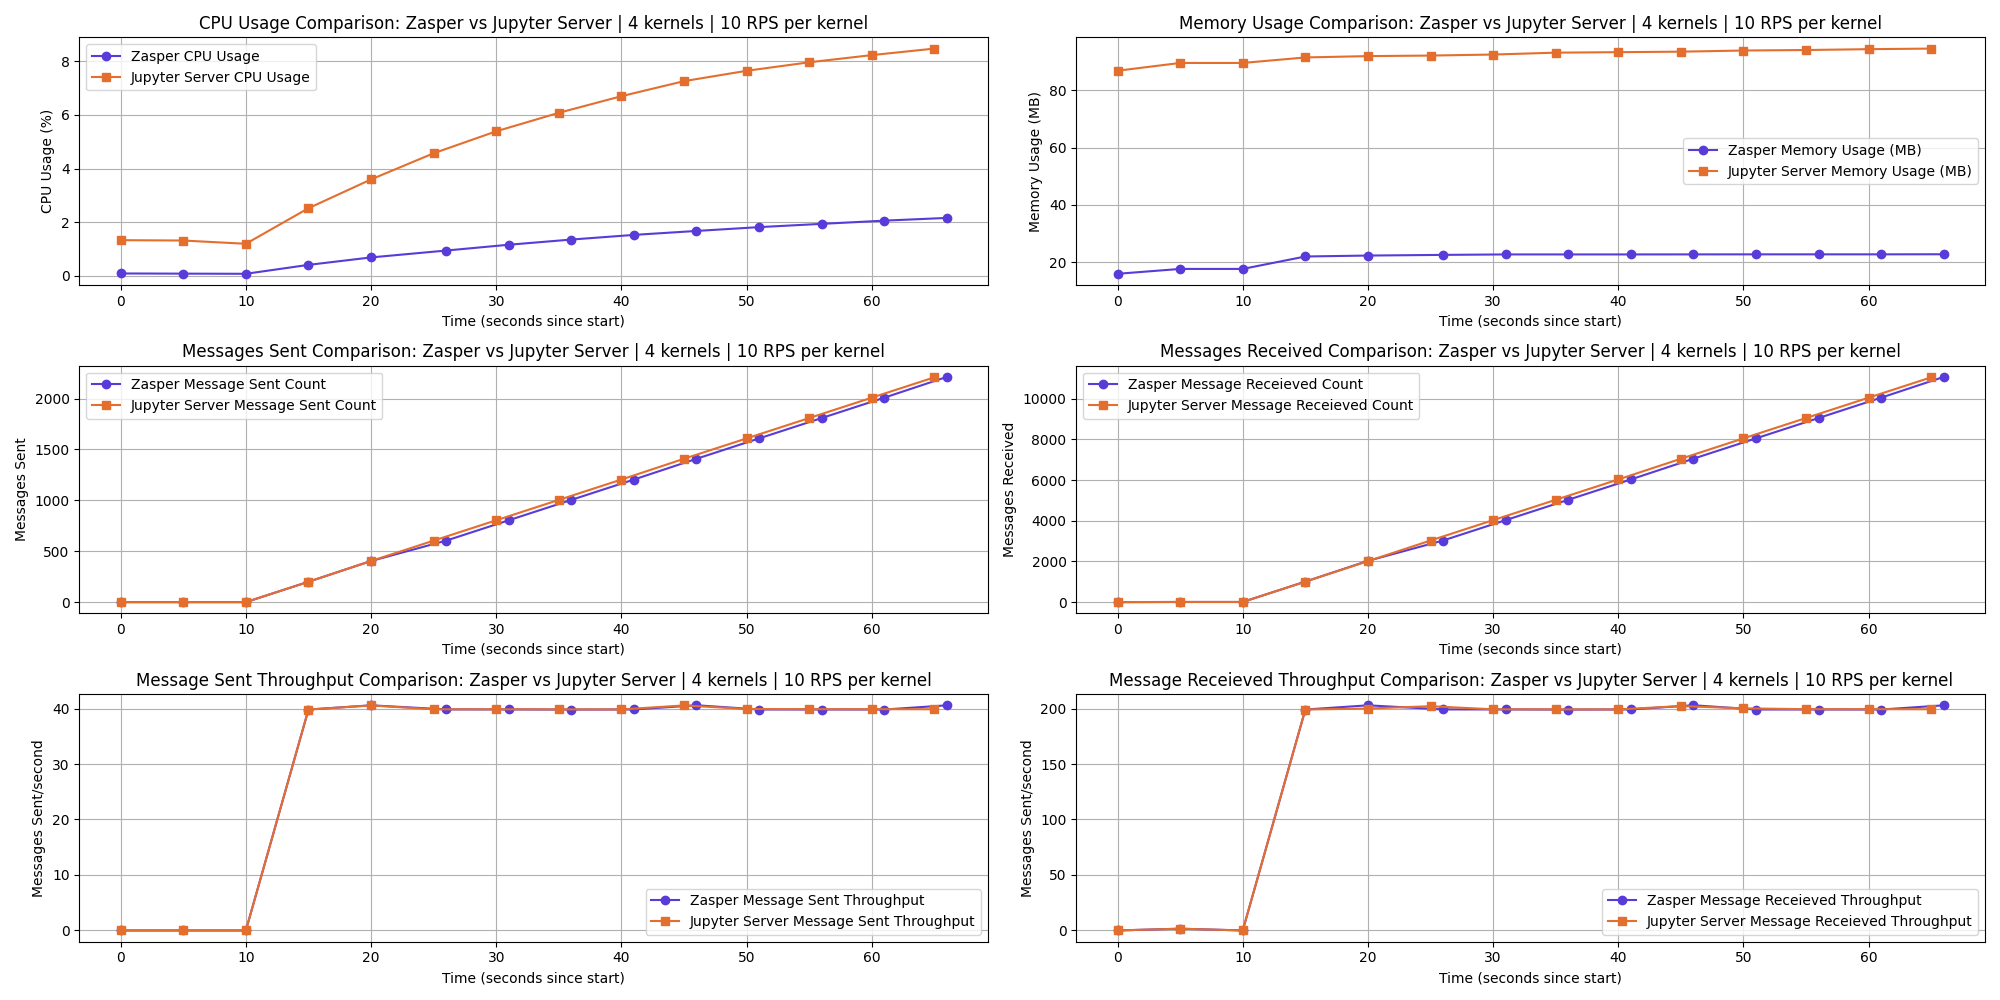
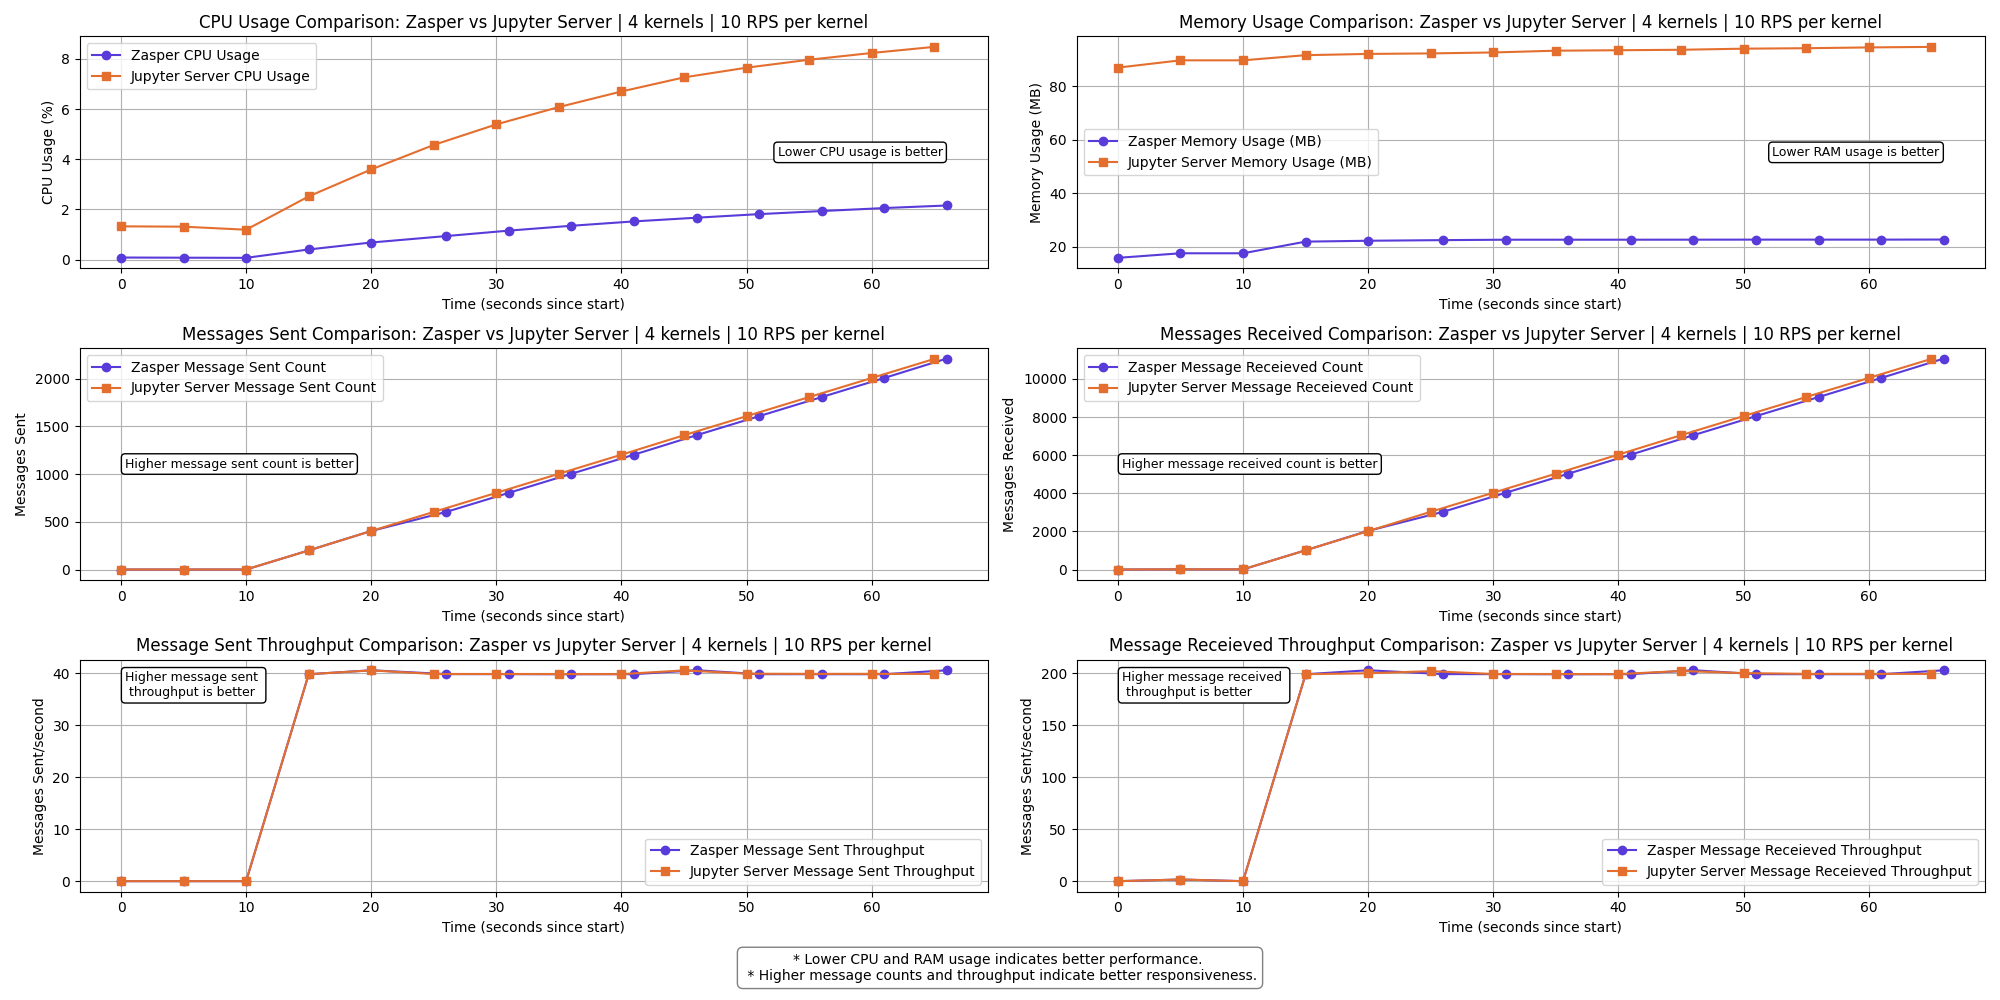
add annotations to the plots

diff --git a/visualize.py b/visualize.py
@@ -43,6 +43,25 @@ def extract_metrics(data):
 zasper_time, zasper_cpu_usage, zasper_memory_usage, zasper_messages_sent_count, zasper_messages_received_count, zasper_message_sent_throughput, zasper_message_received_throughput = extract_metrics(zasper_data)
 jupyter_time, jupyter_cpu_usage, jupyter_memory_usage, jupyter_messages_sent_count, jupyter_messages_received_count, jupyter_message_sent_throughput, jupyter_message_received_throughput = extract_metrics(jupyter_data)
 
+# Define helper to add annotation
+def add_note(ax, text, position='upper right'):
+    positions = {
+        'upper right': dict(x=0.95, y=0.95, ha='right', va='top'),
+        'upper left': dict(x=0.05, y=0.95, ha='left', va='top'),
+        'center': dict(x=0.5, y=0.5, ha='center', va='center'),
+        'center left': dict(x=0.05, y=0.5, ha='left', va='center'),
+        'center right': dict(x=0.95, y=0.5, ha='right', va='center'),
+        'lower right': dict(x=0.95, y=0.05, ha='right', va='bottom'),
+        'lower left': dict(x=0.05, y=0.05, ha='left', va='bottom'),
+    }
+    ax.text(
+        s=text,
+        transform=ax.transAxes,
+        fontsize=9,
+        bbox=dict(facecolor='white', edgecolor='black', boxstyle='round,pad=0.3'),
+        **positions[position]
+    )
+
 # Create two subplots: one for CPU usage and one for Memory usage
 fig, ((ax1, ax2), (ax3, ax4), (ax5, ax6)) = plt.subplots(3, 2, figsize=(20, 10))
 
@@ -54,6 +73,7 @@ ax1.set_ylabel('CPU Usage (%)')
 ax1.set_title(f'CPU Usage Comparison: Zasper vs Jupyter Server | {n} kernels | 10 RPS per kernel')
 ax1.legend()
 ax1.grid(True)
+add_note(ax1, "Lower CPU usage is better", position='center right')
 
 # Plot Memory usage
 ax2.plot(zasper_time, zasper_memory_usage, label="Zasper Memory Usage (MB)", color='#583BD8', marker='o')
@@ -63,6 +83,7 @@ ax2.set_ylabel('Memory Usage (MB)')
 ax2.set_title(f'Memory Usage Comparison: Zasper vs Jupyter Server | {n} kernels | 10 RPS per kernel')
 ax2.legend()
 ax2.grid(True)
+add_note(ax2, "Lower RAM usage is better", position='center right')
 
 
 # Plot Message Sent
@@ -73,6 +94,7 @@ ax3.set_ylabel('Messages Sent')
 ax3.set_title(f'Messages Sent Comparison: Zasper vs Jupyter Server | {n} kernels | 10 RPS per kernel')
 ax3.legend()
 ax3.grid(True)
+add_note(ax3, "Higher message sent count is better", position='center left')
 
 # Plot Message Receieved
 ax4.plot(zasper_time, zasper_messages_received_count, label="Zasper Message Receieved Count", color='#583BD8', marker='o')
@@ -82,6 +104,7 @@ ax4.set_ylabel('Messages Received')
 ax4.set_title(f'Messages Received Comparison: Zasper vs Jupyter Server | {n} kernels | 10 RPS per kernel')
 ax4.legend()
 ax4.grid(True)
+add_note(ax4, "Higher message received count is better", position='center left')
 
 
 # Plot Message Sent Throughput
@@ -92,6 +115,7 @@ ax5.set_ylabel('Messages Sent/second')
 ax5.set_title(f'Message Sent Throughput Comparison: Zasper vs Jupyter Server | {n} kernels | 10 RPS per kernel')
 ax5.legend()
 ax5.grid(True)
+add_note(ax5, "Higher message sent \n throughput is better", position='upper left')
 
 # Plot Message Receieved Throughput
 ax6.plot(zasper_time, zasper_message_received_throughput, label="Zasper Message Receieved Throughput", color='#583BD8', marker='o')
@@ -101,9 +125,20 @@ ax6.set_ylabel('Messages Sent/second')
 ax6.set_title(f'Message Receieved Throughput Comparison: Zasper vs Jupyter Server | {n} kernels | 10 RPS per kernel')
 ax6.legend()
 ax6.grid(True)
+add_note(ax6, "Higher message received \n throughput is better", position='upper left')
 
+fig.text(
+    0.5, 0.02,
+    "* Lower CPU and RAM usage indicates better performance. \n * Higher message counts and throughput indicate better responsiveness.",
+    ha='center',
+    fontsize=10,
+    bbox=dict(facecolor='white', edgecolor='gray', boxstyle='round,pad=0.4')
+)
 
 # Show the plot
-plt.tight_layout()
+# plt.tight_layout()
+plt.tight_layout(rect=[0, 0.05, 1, 1])
+
 plt.savefig(f"plots/{delay}ms/benchmark_result_{n}kernels.png")
 # plt.show()
+

diff --git a/README.md b/README.md
@@ -154,6 +154,10 @@ The graph shows a clear performance difference between Zasper and Jupyter Server
 
 ![](/plots/100ms/benchmark_result_2kernels.png)
 
+Lower CPU uasage and RAM usage is better.
+Higher Message sent and  Message receievd is better
+Higher Message sent per second and Message received per second  is better.
+
 ### 4 kernels | 10 RPS per kernel
 
 ![](/plots/100ms/benchmark_result_4kernels.png)
@@ -288,10 +292,14 @@ Zasper is designed around the principle of **“Use More to Save More.”** As r
 * Cost Efficiency: Lower resource usage translates to fewer cloud compute instances required.
 * Better Scalability: Efficient resource handling allows support for more users and sessions per node.
 
-
 ## Conclusion
 
 This benchmarking study highlights Zasper's performance advantages over the traditional Jupyter Server. Whether for individual developers or large-scale enterprise deployments, Zasper demonstrates meaningful improvements in resource efficiency and execution throughput, making it a promising alternative for interactive computing environments.
+
+
+# Thanks to Jupyter Community
+
+Zasper would not exist without the incredible work of the Jupyter community. Zasper uses the Jupyter wire protocol and draws inspiration from its architecture. Deep thanks to all Jupyter contributors for laying the groundwork. Data Science Notebooks would not have existed without them.
 
 # Copyright
 
